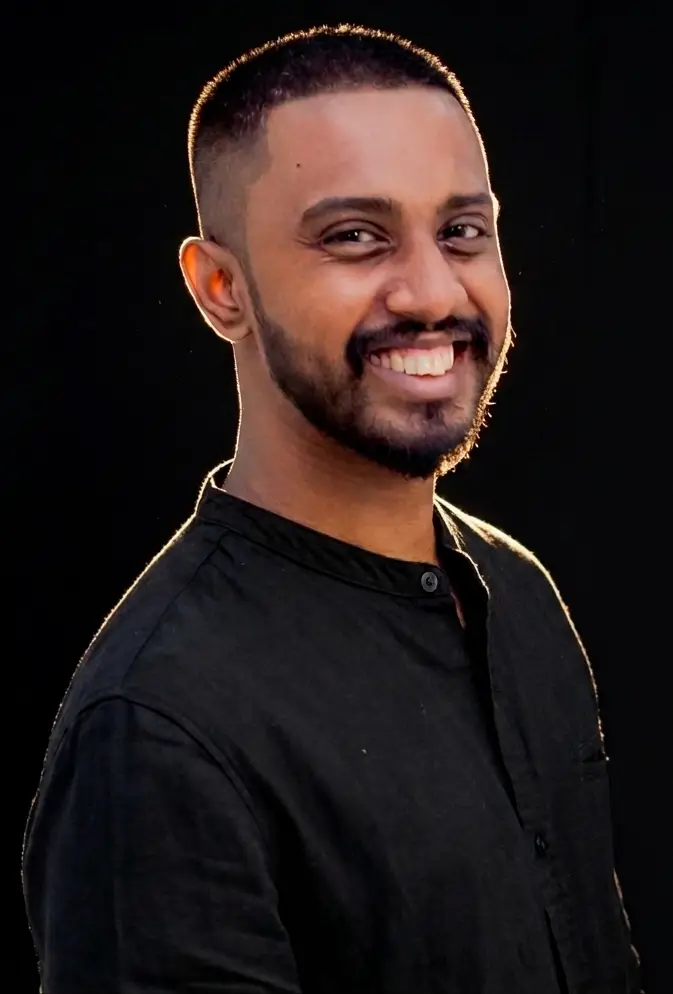
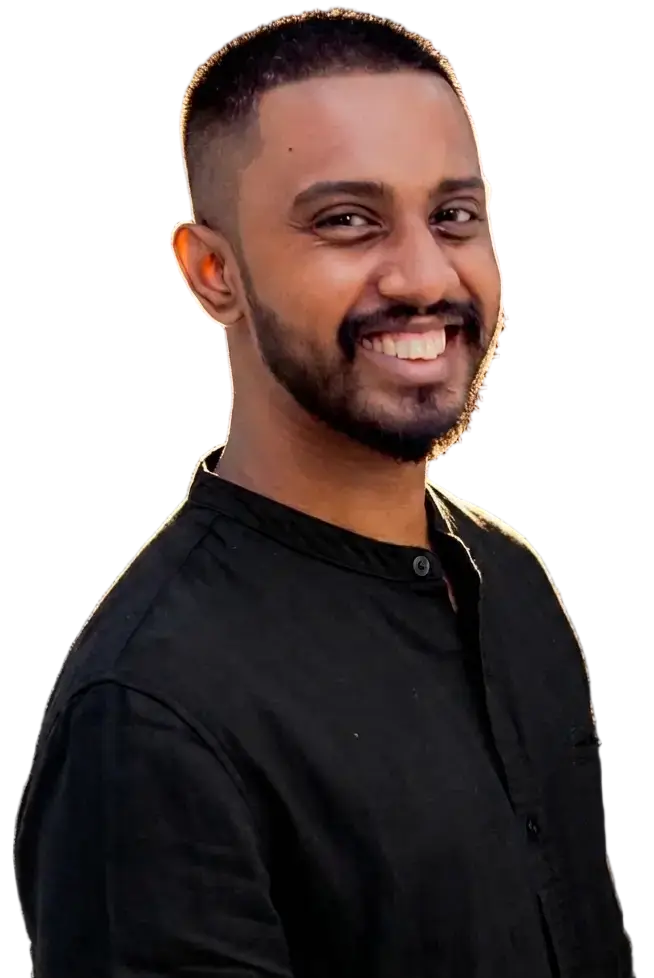
fix: background image updated, blinking effect added.

diff --git a/src/lib/floatingIcons.ts b/src/lib/floatingIcons.ts
@@ -11,6 +11,10 @@
  *   3. Parallax tilt: the whole layer softly leans a few pixels based on
  *      cursor position across the hero. Layers ("far" / "mid" / "near")
  *      travel at different weights to fake depth.
+ *   4. Random blinks: on a randomized interval, 1–2 idle icons briefly
+ *      auto-play the exact same lit/rest tween as the proximity hover,
+ *      giving the layer a subtle "alive" pulse. Icons currently lit by the
+ *      cursor are skipped.
  *
  * Constraints:
  *   - Runs on desktop/tablet only. The layer is `display:none` below md,
@@ -40,8 +44,17 @@ interface IconInstance {
   cx: number;              // last-measured viewport center x
   cy: number;              // last-measured viewport center y
   active: boolean;         // currently inside proximity radius
+  blinking: boolean;       // currently mid random-blink
   driftTween?: gsap.core.Tween;
+  blinkTl?: gsap.core.Timeline;
 }
+
+// Random-blink scheduler tunables.
+const BLINK_INTERVAL_MIN = 1.2; // seconds
+const BLINK_INTERVAL_MAX = 3.5; // seconds
+const BLINK_HOLD_MIN = 0.15;    // seconds icon stays "lit" before easing back
+const BLINK_HOLD_MAX = 0.4;
+const BLINK_MULTI_CHANCE = 0.3; // chance to blink 2 icons at once
 
 let icons: IconInstance[] = [];
 let root: HTMLElement | null = null;
@@ -51,6 +64,7 @@ let lastMouseX = 0;
 let lastMouseY = 0;
 let cleanupFns: Array<() => void> = [];
 let initialized = false;
+let blinkCall: gsap.core.Tween | null = null;
 
 function prefersReducedMotion(): boolean {
   return (
@@ -105,6 +119,47 @@ function startIdleDrift(): void {
   });
 }
 
+/** Per-layer "lit" scale used by both proximity hover and random blinks. */
+function nearScaleFor(layer: "far" | "mid" | "near"): number {
+  return layer === "far" ? 0.92 : layer === "near" ? 1.25 : 1.15;
+}
+
+/** Per-layer rest scale (mirrors the initial gsap.set in startIdleDrift). */
+function restScaleFor(layer: "far" | "mid" | "near"): number {
+  return layer === "far" ? 0.78 : layer === "near" ? 1.1 : 1;
+}
+
+/** Per-layer rest filter — restores the CSS blur/saturate baseline. */
+function restFilterFor(layer: "far" | "mid" | "near"): string {
+  return layer === "far"
+    ? "blur(1.2px) saturate(0.55) drop-shadow(0 0 0px rgba(0,0,0,0))"
+    : "saturate(0.7) drop-shadow(0 0 0px rgba(0,0,0,0))";
+}
+
+/** Tween an icon into its "hovered/lit" state. Shared by proximity + blink. */
+function tweenLit(ic: IconInstance): gsap.core.Tween {
+  return gsap.to(ic.inner, {
+    opacity: 1,
+    scale: nearScaleFor(ic.layer),
+    filter: `drop-shadow(0 0 10px ${GLOW_COLOR}) saturate(1)`,
+    duration: 0.28,
+    ease: "power2.out",
+    overwrite: "auto",
+  });
+}
+
+/** Tween an icon back to its resting layer state. Shared by proximity + blink. */
+function tweenRest(ic: IconInstance): gsap.core.Tween {
+  return gsap.to(ic.inner, {
+    opacity: ic.baseOpacity,
+    scale: restScaleFor(ic.layer),
+    filter: restFilterFor(ic.layer),
+    duration: 0.9,
+    ease: "power2.out",
+    overwrite: "auto",
+  });
+}
+
 /** Run the proximity + parallax pass — called from an rAF tick. */
 function proximityFrame(): void {
   rafPending = false;
@@ -140,30 +195,56 @@ function proximityFrame(): void {
 
     if (isNear && !ic.active) {
       ic.active = true;
-      gsap.to(ic.inner, {
-        opacity: 1,
-        scale: ic.layer === "far" ? 0.92 : ic.layer === "near" ? 1.25 : 1.15,
-        filter: `drop-shadow(0 0 10px ${GLOW_COLOR}) saturate(1)`,
-        duration: 0.28,
-        ease: "power2.out",
-        overwrite: "auto",
-      });
+      tweenLit(ic);
     } else if (!isNear && ic.active) {
       ic.active = false;
-      const restScale = ic.layer === "far" ? 0.78 : ic.layer === "near" ? 1.1 : 1;
-      const restFilter =
-        ic.layer === "far"
-          ? "blur(1.2px) saturate(0.55) drop-shadow(0 0 0px rgba(0,0,0,0))"
-          : "saturate(0.7) drop-shadow(0 0 0px rgba(0,0,0,0))";
-      gsap.to(ic.inner, {
-        opacity: ic.baseOpacity,
-        scale: restScale,
-        filter: restFilter,
-        duration: 0.9,
-        ease: "power2.out",
-        overwrite: "auto",
-      });
+      tweenRest(ic);
     }
+  });
+}
+
+/**
+ * Play a one-shot blink on a single icon — identical visual to the hover glow:
+ * quick lit tween → brief hold → slow ease back to rest.
+ * Skipped if the cursor is already lighting this icon.
+ */
+function playBlink(ic: IconInstance): void {
+  if (ic.active || ic.blinking) return;
+  ic.blinking = true;
+
+  const tl = gsap.timeline({
+    onComplete: () => {
+      ic.blinking = false;
+      ic.blinkTl = undefined;
+    },
+  });
+
+  tl.add(tweenLit(ic))
+    .to(ic.inner, { duration: gsap.utils.random(BLINK_HOLD_MIN, BLINK_HOLD_MAX) })
+    .add(tweenRest(ic));
+
+  ic.blinkTl = tl;
+}
+
+/** Pick 1–2 eligible icons at random and blink them. */
+function triggerRandomBlink(): void {
+  const candidates = icons.filter((ic) => !ic.active && !ic.blinking);
+  if (candidates.length === 0) return;
+
+  const count = candidates.length > 1 && Math.random() < BLINK_MULTI_CHANCE ? 2 : 1;
+  for (let i = 0; i < count && candidates.length > 0; i++) {
+    const idx = Math.floor(Math.random() * candidates.length);
+    const [ic] = candidates.splice(idx, 1);
+    playBlink(ic);
+  }
+}
+
+/** Recursively schedule the next blink at a randomized interval. */
+function scheduleNextBlink(): void {
+  const delay = gsap.utils.random(BLINK_INTERVAL_MIN, BLINK_INTERVAL_MAX);
+  blinkCall = gsap.delayedCall(delay, () => {
+    triggerRandomBlink();
+    scheduleNextBlink();
   });
 }
 
@@ -216,6 +297,7 @@ export function initFloatingIcons(): void {
       cx: 0,
       cy: 0,
       active: false,
+      blinking: false,
     };
   });
 
@@ -226,6 +308,7 @@ export function initFloatingIcons(): void {
   if (prefersReducedMotion()) return;
 
   startIdleDrift();
+  scheduleNextBlink();
 
   heroSection.addEventListener("mousemove", onMouseMove, { passive: true });
   window.addEventListener("resize", onResize, { passive: true });
@@ -240,8 +323,11 @@ export function initFloatingIcons(): void {
 export function destroyFloatingIcons(): void {
   cleanupFns.forEach((fn) => fn());
   cleanupFns = [];
+  blinkCall?.kill();
+  blinkCall = null;
   icons.forEach((ic) => {
     ic.driftTween?.kill();
+    ic.blinkTl?.kill();
     gsap.killTweensOf(ic.inner);
     gsap.killTweensOf(ic.el);
   });

diff --git a/src/components/hero/floatingIconsConfig.ts b/src/components/hero/floatingIconsConfig.ts
@@ -52,8 +52,8 @@ export const heroFloatingIcons: FloatingIconConfig[] = [
   { id: "github",     label: "GitHub",     x: 84, y: 90, size: 22, layer: "far",  driftDelay: 2.4, rotation: 8 },
 
   // ── Upper-left sky (above portrait, for balance) ───
-  { id: "html5",      label: "HTML5",      x: 8,  y: 14, size: 26, layer: "mid",  driftDelay: 1.4, rotation: 5 },
-  { id: "css",        label: "CSS",        x: 20, y: 22, size: 22, layer: "far",  driftDelay: 2.0, rotation: -7 },
+  { id: "html5",      label: "HTML5",      x: 24,  y: 14, size: 26, layer: "mid",  driftDelay: 1.4, rotation: 5 },
+  { id: "css",        label: "CSS",        x: 32, y: 22, size: 22, layer: "far",  driftDelay: 2.0, rotation: -7 },
   { id: "figma",      label: "Figma",      x: 14, y: 34, size: 28, layer: "near", driftDelay: 0.3, rotation: 2 },
 
   // ── Center-top drift (single, small, low opacity) ──
